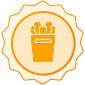
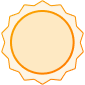
feat: 도감 지역별 페이지 UI 구현

diff --git a/src/features/stamp/pages/StampDetail.tsx b/src/features/stamp/pages/StampDetail.tsx
@@ -1,45 +1,83 @@
-import { useNavigate } from "react-router-dom";
-import backImg from "@/assets/back.png";
+import { useNavigate, useParams } from "react-router-dom";
+import backImgB from "@/assets/back.png";
+import backImgW from "@/features/stamp/assets/backW.png";
 import TrueStamp from "@/features/stamp/assets/TrueStamp.png";
 import FalseStamp from "@/features/stamp/assets/FalseStamp.png";
 
 const StampDetail = () => {
   const navigate = useNavigate();
+  const { region } = useParams<{ region: string }>();
 
   const stamps = [
     { id: "1", name: "망원시장", visited: true },
     { id: "2", name: "으잉시장", visited: false },
+    { id: "2-1", name: "으잉시장", visited: false },
+    { id: "1-1", name: "망원시장", visited: false },
     { id: "3", name: "으엥시장", visited: false },
   ];
 
+  const visitedCount = stamps.filter((s) => s.visited).length;
+  const totalCount = stamps.length;
+  const progress = Number(((visitedCount / totalCount) * 100).toFixed(0));
+
+  let bgColor = "bg-deactivate";
+  if (progress === 100) {
+    bgColor = "bg-primary";
+  } else if (progress > 0 && progress < 100) {
+    bgColor = "bg-sub";
+  } else if (progress === 0) {
+    bgColor = "bg-deactivate";
+  }
+  const backIcon = Number(progress) === 0 ? backImgB : backImgW;
+  const textColor = Number(progress) === 0 ? "text-black" : "text-white";
+
   return (
-    <div className="flex flex-col h-screen pb-[71px] ">
-      <div className="h-[44px] bg-primary"></div>
-      <div className="relative flex items-center h-[44px] bg-primary">
+    <div className="flex flex-col h-screen pb-[71px]">
+      <div className={`h-[44px] ${bgColor}`} />
+
+      <div className={`relative flex items-center h-[44px] ${bgColor}`}>
         <button className="absolute left-[32px]" onClick={() => navigate(-1)}>
           <img
-            src={backImg}
+            src={backIcon}
             alt="뒤로가기"
             className="w-6 h-6 object-contain"
           />
         </button>
-
-        <p className="text-subtitle1 absolute left-1/2 -translate-x-1/2 bg-primary">
-          도장깨기
+        <p
+          className={`text-subtitle1 absolute left-1/2 -translate-x-1/2 ${textColor}`}
+        >
+          My 도감
         </p>
       </div>
 
-      <div className="bg-primary px-[32px] py-[32px] text-white rounded-b-[20px]">
-        <h2 className="text-headline1 mb-[20px] text-center">서울</h2>
-        <div className="w-full bg-[#AD7000] h-[8px] rounded-full overflow-hidden mb-[8px]">
-          <div
-            className="h-full bg-white"
-            style={{ width: `${(7 / 12) * 100}%` }}
-          />
+      <div
+        className={`${bgColor} px-[32px] py-[32px] text-white rounded-b-[20px]`}
+      >
+        <div className="relative flex justify-center mb-[20px]">
+          <h2 className={`text-headline1 ${textColor}`}>{region}</h2>
+          <span className="absolute translate-x-[82px] top-1/2 -translate-y-1/2 bg-white text-primary px-[12px] py-[8px] rounded-full text-body4">
+            진행률 {progress}%
+          </span>
         </div>
-        <p className="text-body4 flex justify-between items-center">
-          <span>진행률 </span>
-          <span>7 / 12</span>
+
+        <div
+          className={`w-full h-[10px] rounded-full overflow-hidden mb-[8px] ${
+            Number(progress) === 0 ? "bg-deactivate-text" : "bg-[#833200]"
+          }`}
+        >
+          {" "}
+          <div className="h-full bg-white" style={{ width: `${progress}%` }} />
+        </div>
+
+        <p
+          className={`text-body4 flex justify-between items-center ${
+            Number(progress) === 0 ? "text-deactivate-text" : "text-white"
+          }`}
+        >
+          <span>도장깬곳</span>
+          <span>
+            {visitedCount} / {totalCount}
+          </span>
         </p>
       </div>
 
@@ -47,12 +85,23 @@ const StampDetail = () => {
         <div className="w-full h-full overflow-y-auto">
           <div className="grid grid-cols-3 gap-[28px] p-[32px]">
             {stamps.map((stamp) => (
-              <div key={stamp.id} className="flex flex-col items-center">
+              <div
+                key={stamp.id}
+                className="relative flex flex-col items-center"
+              >
                 <img
                   src={stamp.visited ? TrueStamp : FalseStamp}
                   alt={stamp.name}
                   className="w-[85px] h-[85px]"
                 />
+                <span
+                  className={`absolute top-[28%] flex items-center justify-center text-body1 font-bold ${
+                    stamp.visited ? "text-primary" : "text-deactivate-text"
+                  }`}
+                >
+                  {stamp.name.replace(/시장$/, "")}
+                </span>
+
                 <span className="text-body1 mt-[4px]">{stamp.name}</span>
               </div>
             ))}

diff --git a/src/features/stamp/components/StampCard.tsx b/src/features/stamp/components/StampCard.tsx
@@ -1,6 +1,9 @@
+import { useNavigate } from "react-router-dom";
 import type { StampCardProps } from "../types/stamp";
+
 import countIcon from "@/features/stamp/assets/count.png";
 import countZeroIcon from "@/features/stamp/assets/countZero.png";
+
 import startCharacter from "@/features/stamp/assets/progress/start.png";
 import earlyCharacter from "@/features/stamp/assets/progress/early.png";
 import midCharacter from "@/features/stamp/assets/progress/mid.png";
@@ -8,6 +11,7 @@ import lateCharacter from "@/features/stamp/assets/progress/late.png";
 import completeCharacter from "@/features/stamp/assets/progress/complete.png";
 
 const StampCard = ({ region, total, progress }: StampCardProps) => {
+  const navigate = useNavigate();
   const isActive = progress > 0;
 
   let character;
@@ -30,17 +34,21 @@ const StampCard = ({ region, total, progress }: StampCardProps) => {
     description = "축하해요! 모든 시장을 다 모았어요!";
   }
 
-  // ✅ 진행률에 따른 배경색
-  let bgColor = "bg-grayBg";
+  let bgColor = "bg-deactivate";
   if (progress === 100) {
     bgColor = "bg-primary";
   } else if (progress > 0 && progress < 100) {
     bgColor = "bg-sub";
   }
 
+  const handleClick = () => {
+    navigate(`/stamp/mystamp/${region}`);
+  };
+
   return (
     <div
-      className={`flex flex-col px-[30px] py-[20px] rounded-[20px] min-w-[287px] h-[424px] ${bgColor}`}
+      onClick={handleClick}
+      className={`flex flex-col px-[30px] py-[20px] rounded-[20px] min-w-[287px] h-[424px] ${bgColor} cursor-pointer`}
     >
       <div
         className={`flex items-center gap-[3.5px] text-body4 mb-[20px] ${

diff --git a/src/router/index.tsx b/src/router/index.tsx
@@ -32,7 +32,7 @@ export const router = createBrowserRouter([
       { path: "stamp", element: <StampMap /> },
       { path: "stamp/certification", element: <Certification /> },
       { path: "stamp/mystamp", element: <MyStampList /> },
-      { path: "stamp/mystamp/detail", element: <StampDetail /> },
+      { path: "stamp/mystamp/:region", element: <StampDetail /> },
     ],
   },
 ]);
